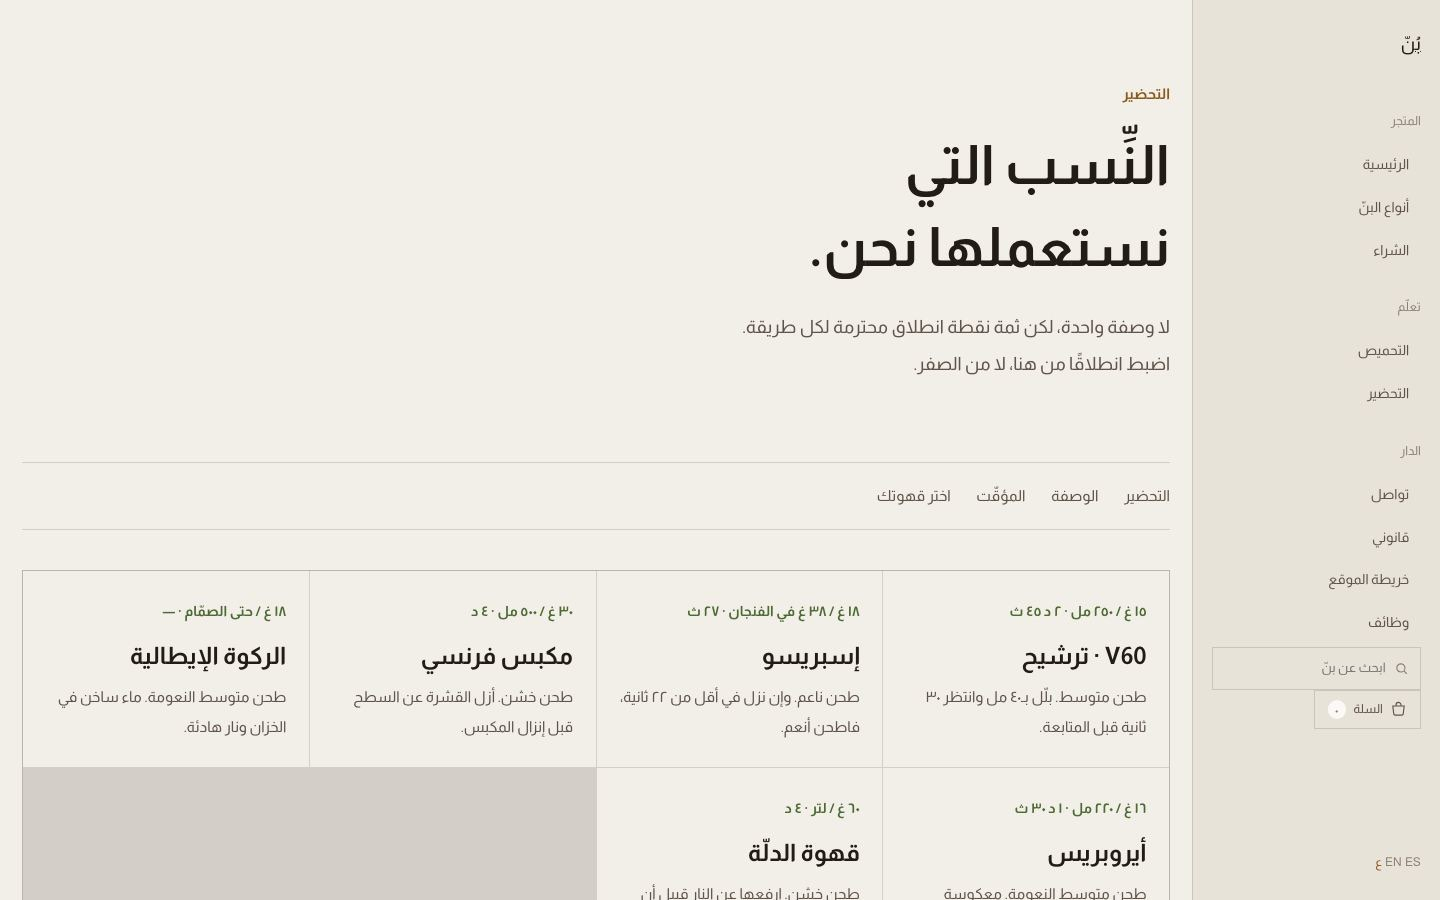
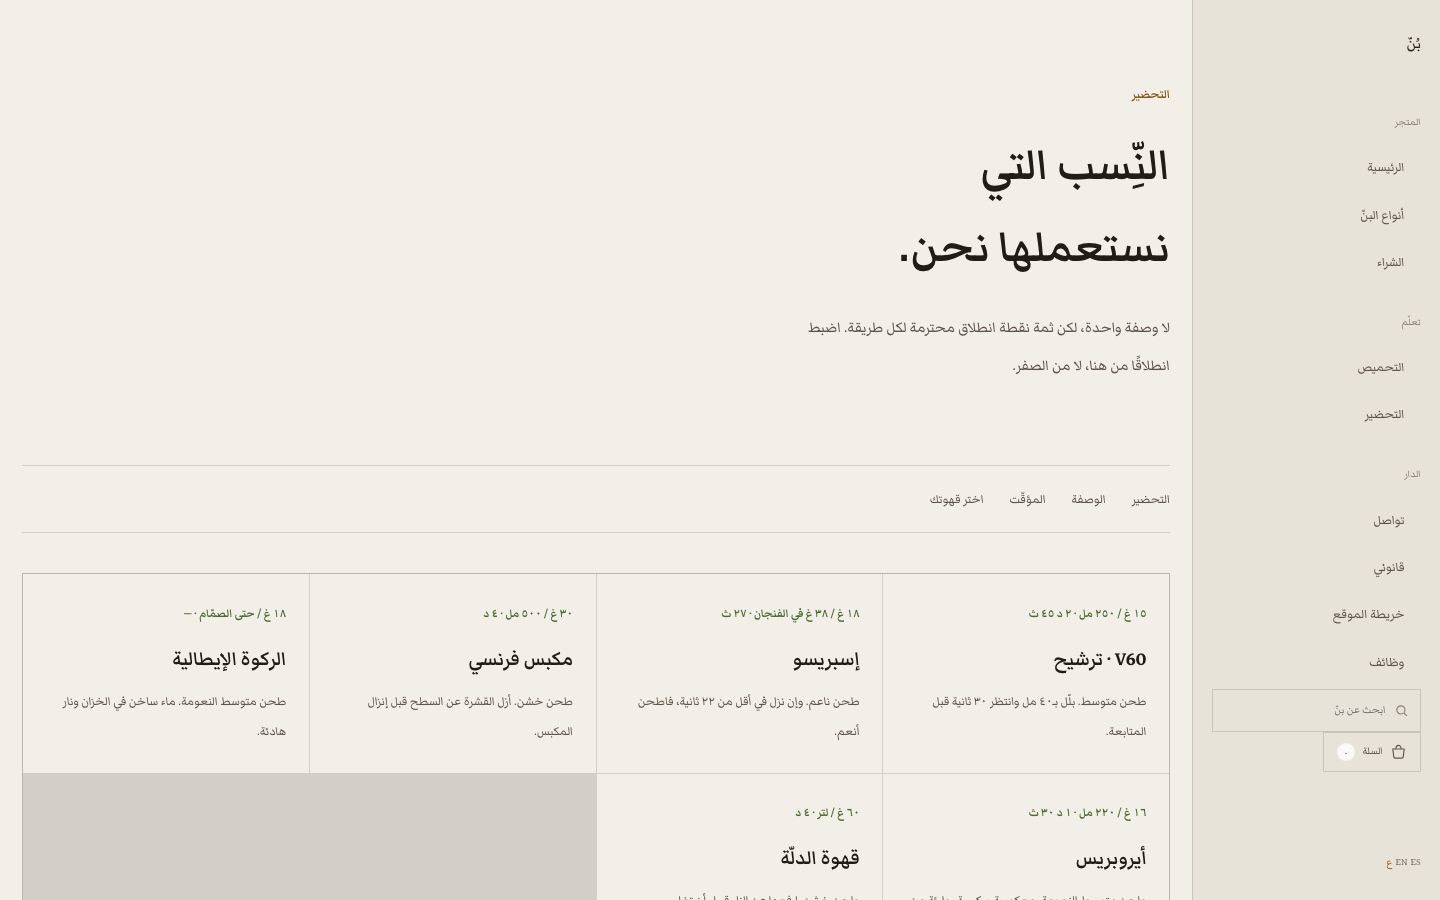
chore(hanma): capturas y cifras al día tras el cambio de voz de los tres
Las nueve capturas se rehacen sobre la copia local, y las cifras de CASOS se
recalculan: 106 kB de media (antes 105) con las tipografías nuevas.

Claude-Session: https://claude.ai/code/session_01V5YB33GjRazwqP1AUxFBUV

diff --git a/index.html b/index.html
@@ -790,11 +790,11 @@ var CORREO = "pagos.euros73@gmail.com";
    lo note: si el sitio cambia, se vuelven a generar con una orden. */
 var CASOS = [
   { id:"nahar", tomas:["nahar-es.jpg","nahar-ar.jpg","nahar-movil.jpg"], url:"https://2troll.github.io/nahar-solar/", repo:"2troll/nahar-solar",
-    nombre:"NAHAR", apartados:23, rutas:9, claves:391, bytes:414397, gz:125206, color:"var(--s1)" },
+    nombre:"NAHAR", apartados:23, rutas:9, claves:391, bytes:416882, gz:125791, color:"var(--s1)" },
   { id:"bunn", tomas:["bunn-es.jpg","bunn-ar.jpg","bunn-movil.jpg"], url:"https://2troll.github.io/bunn-cafe/", repo:"2troll/bunn-cafe",
-    nombre:"BUNN", apartados:20, rutas:9, claves:329, bytes:325061, gz:102501, color:"var(--s2)" },
+    nombre:"BUNN", apartados:20, rutas:9, claves:329, bytes:327202, gz:103010, color:"var(--s2)" },
   { id:"atlas", tomas:["atlas-es.jpg","atlas-ar.jpg","atlas-movil.jpg"], url:"https://2troll.github.io/atlas-fisio/", repo:"2troll/atlas-fisio",
-    nombre:"ATLAS", apartados:22, rutas:9, claves:298, bytes:310973, gz:96231, color:"var(--s3)" }
+    nombre:"ATLAS", apartados:22, rutas:9, claves:298, bytes:313556, gz:96790, color:"var(--s3)" }
 ];
 
 /* Tarifa de referencia. La base es la que ya está cerrada por escrito
